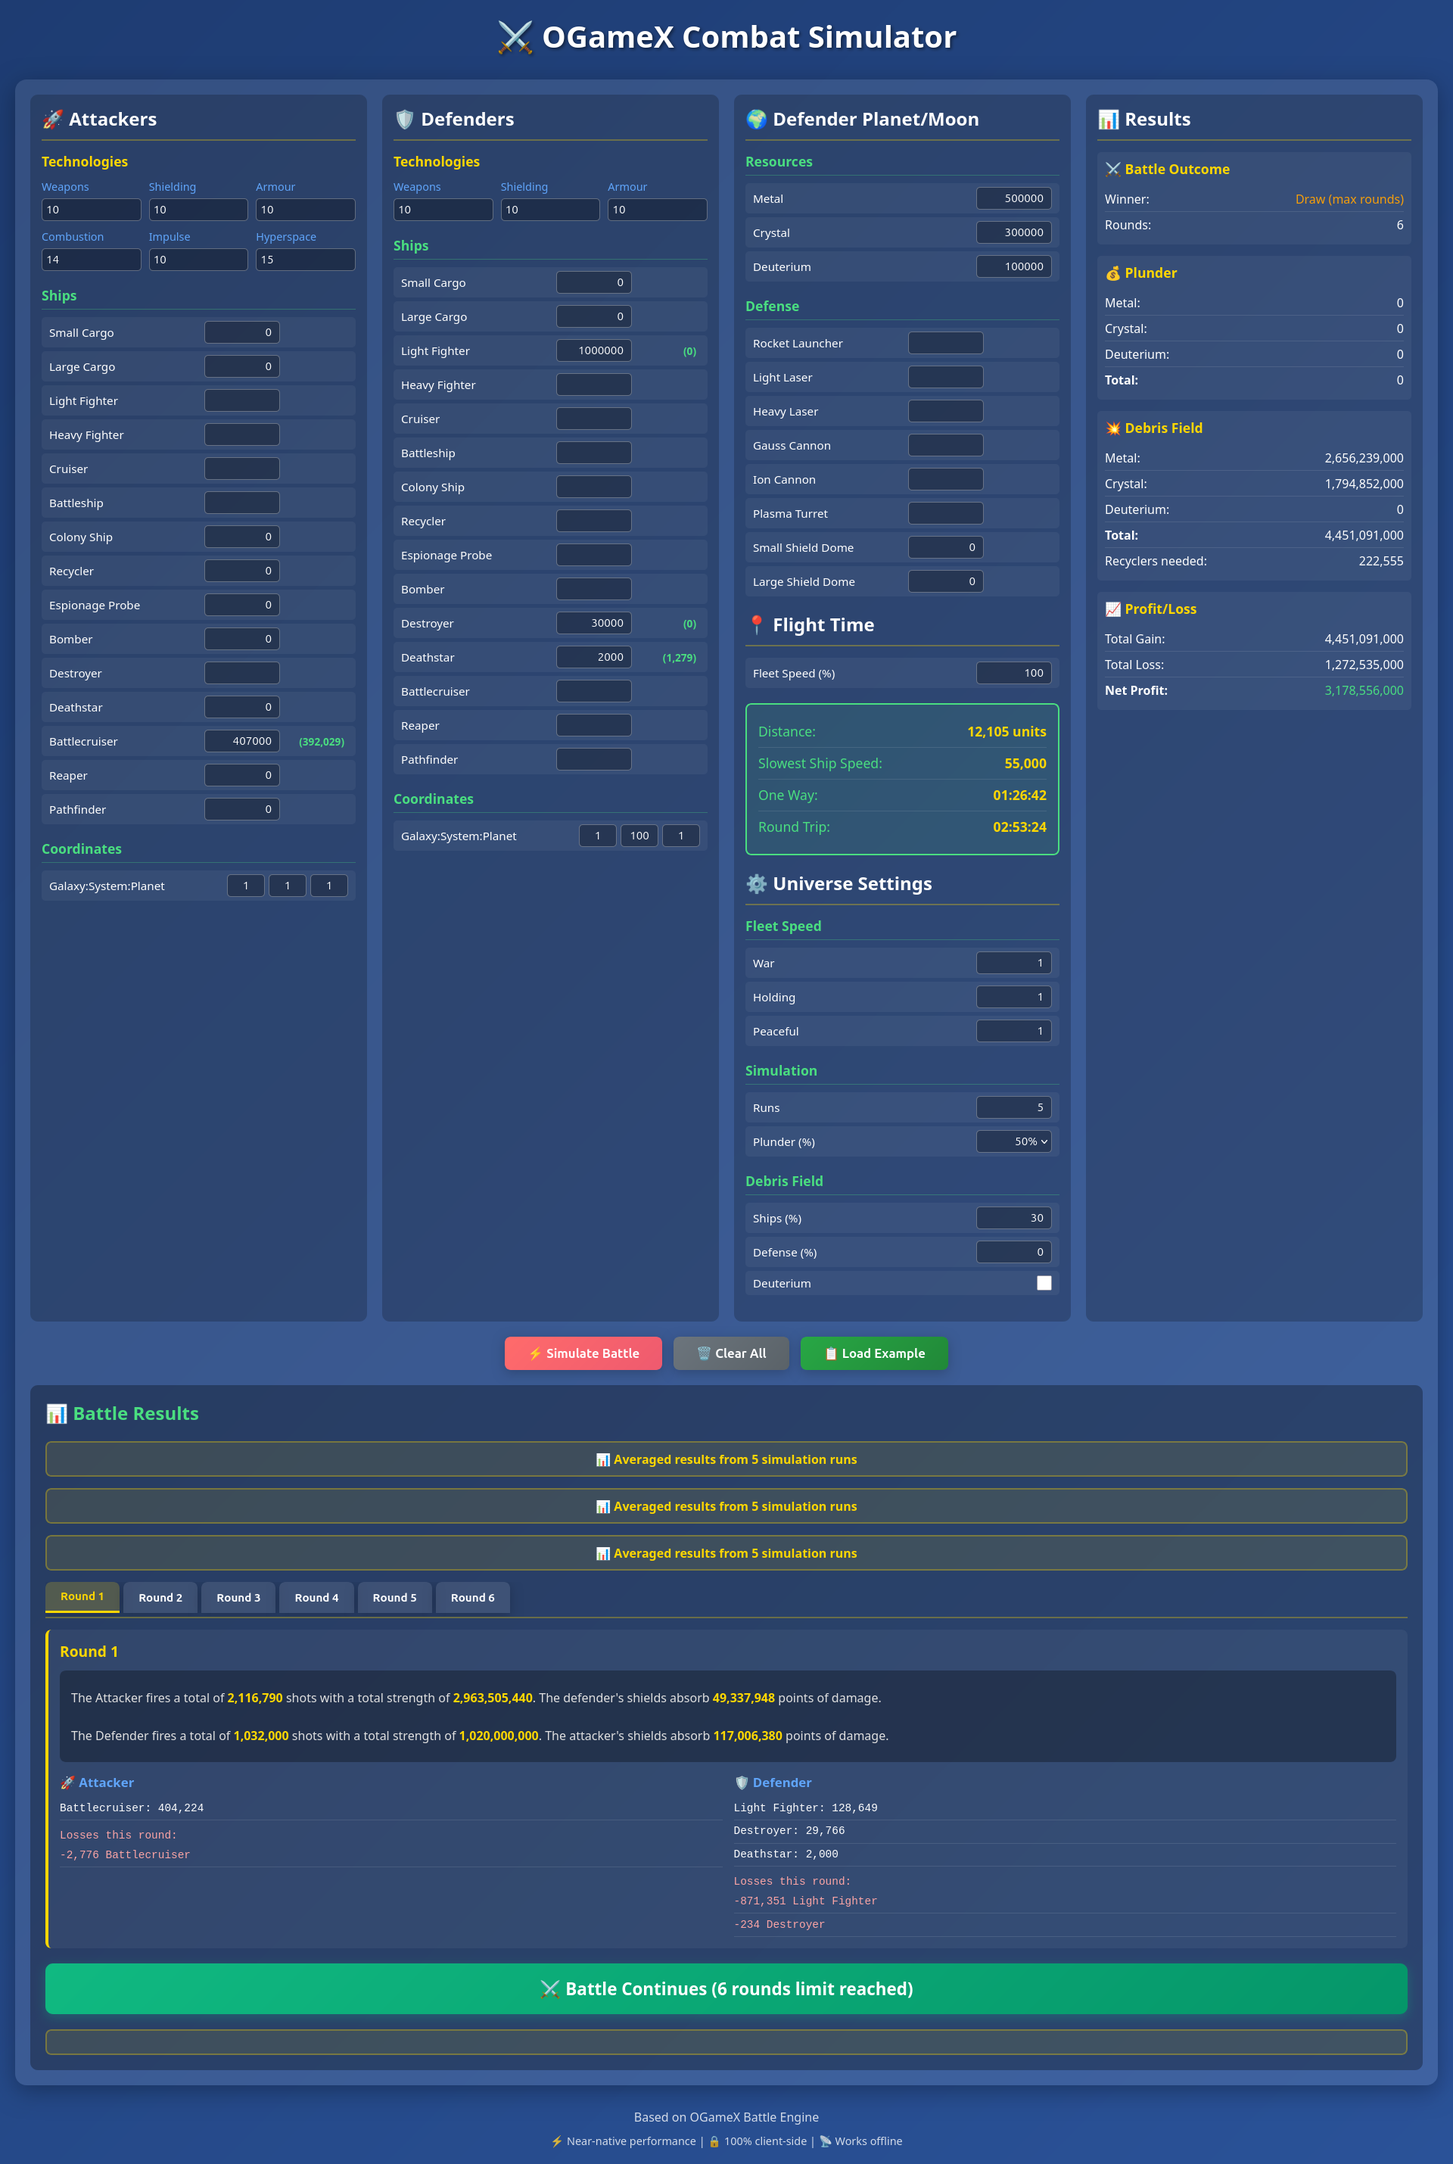
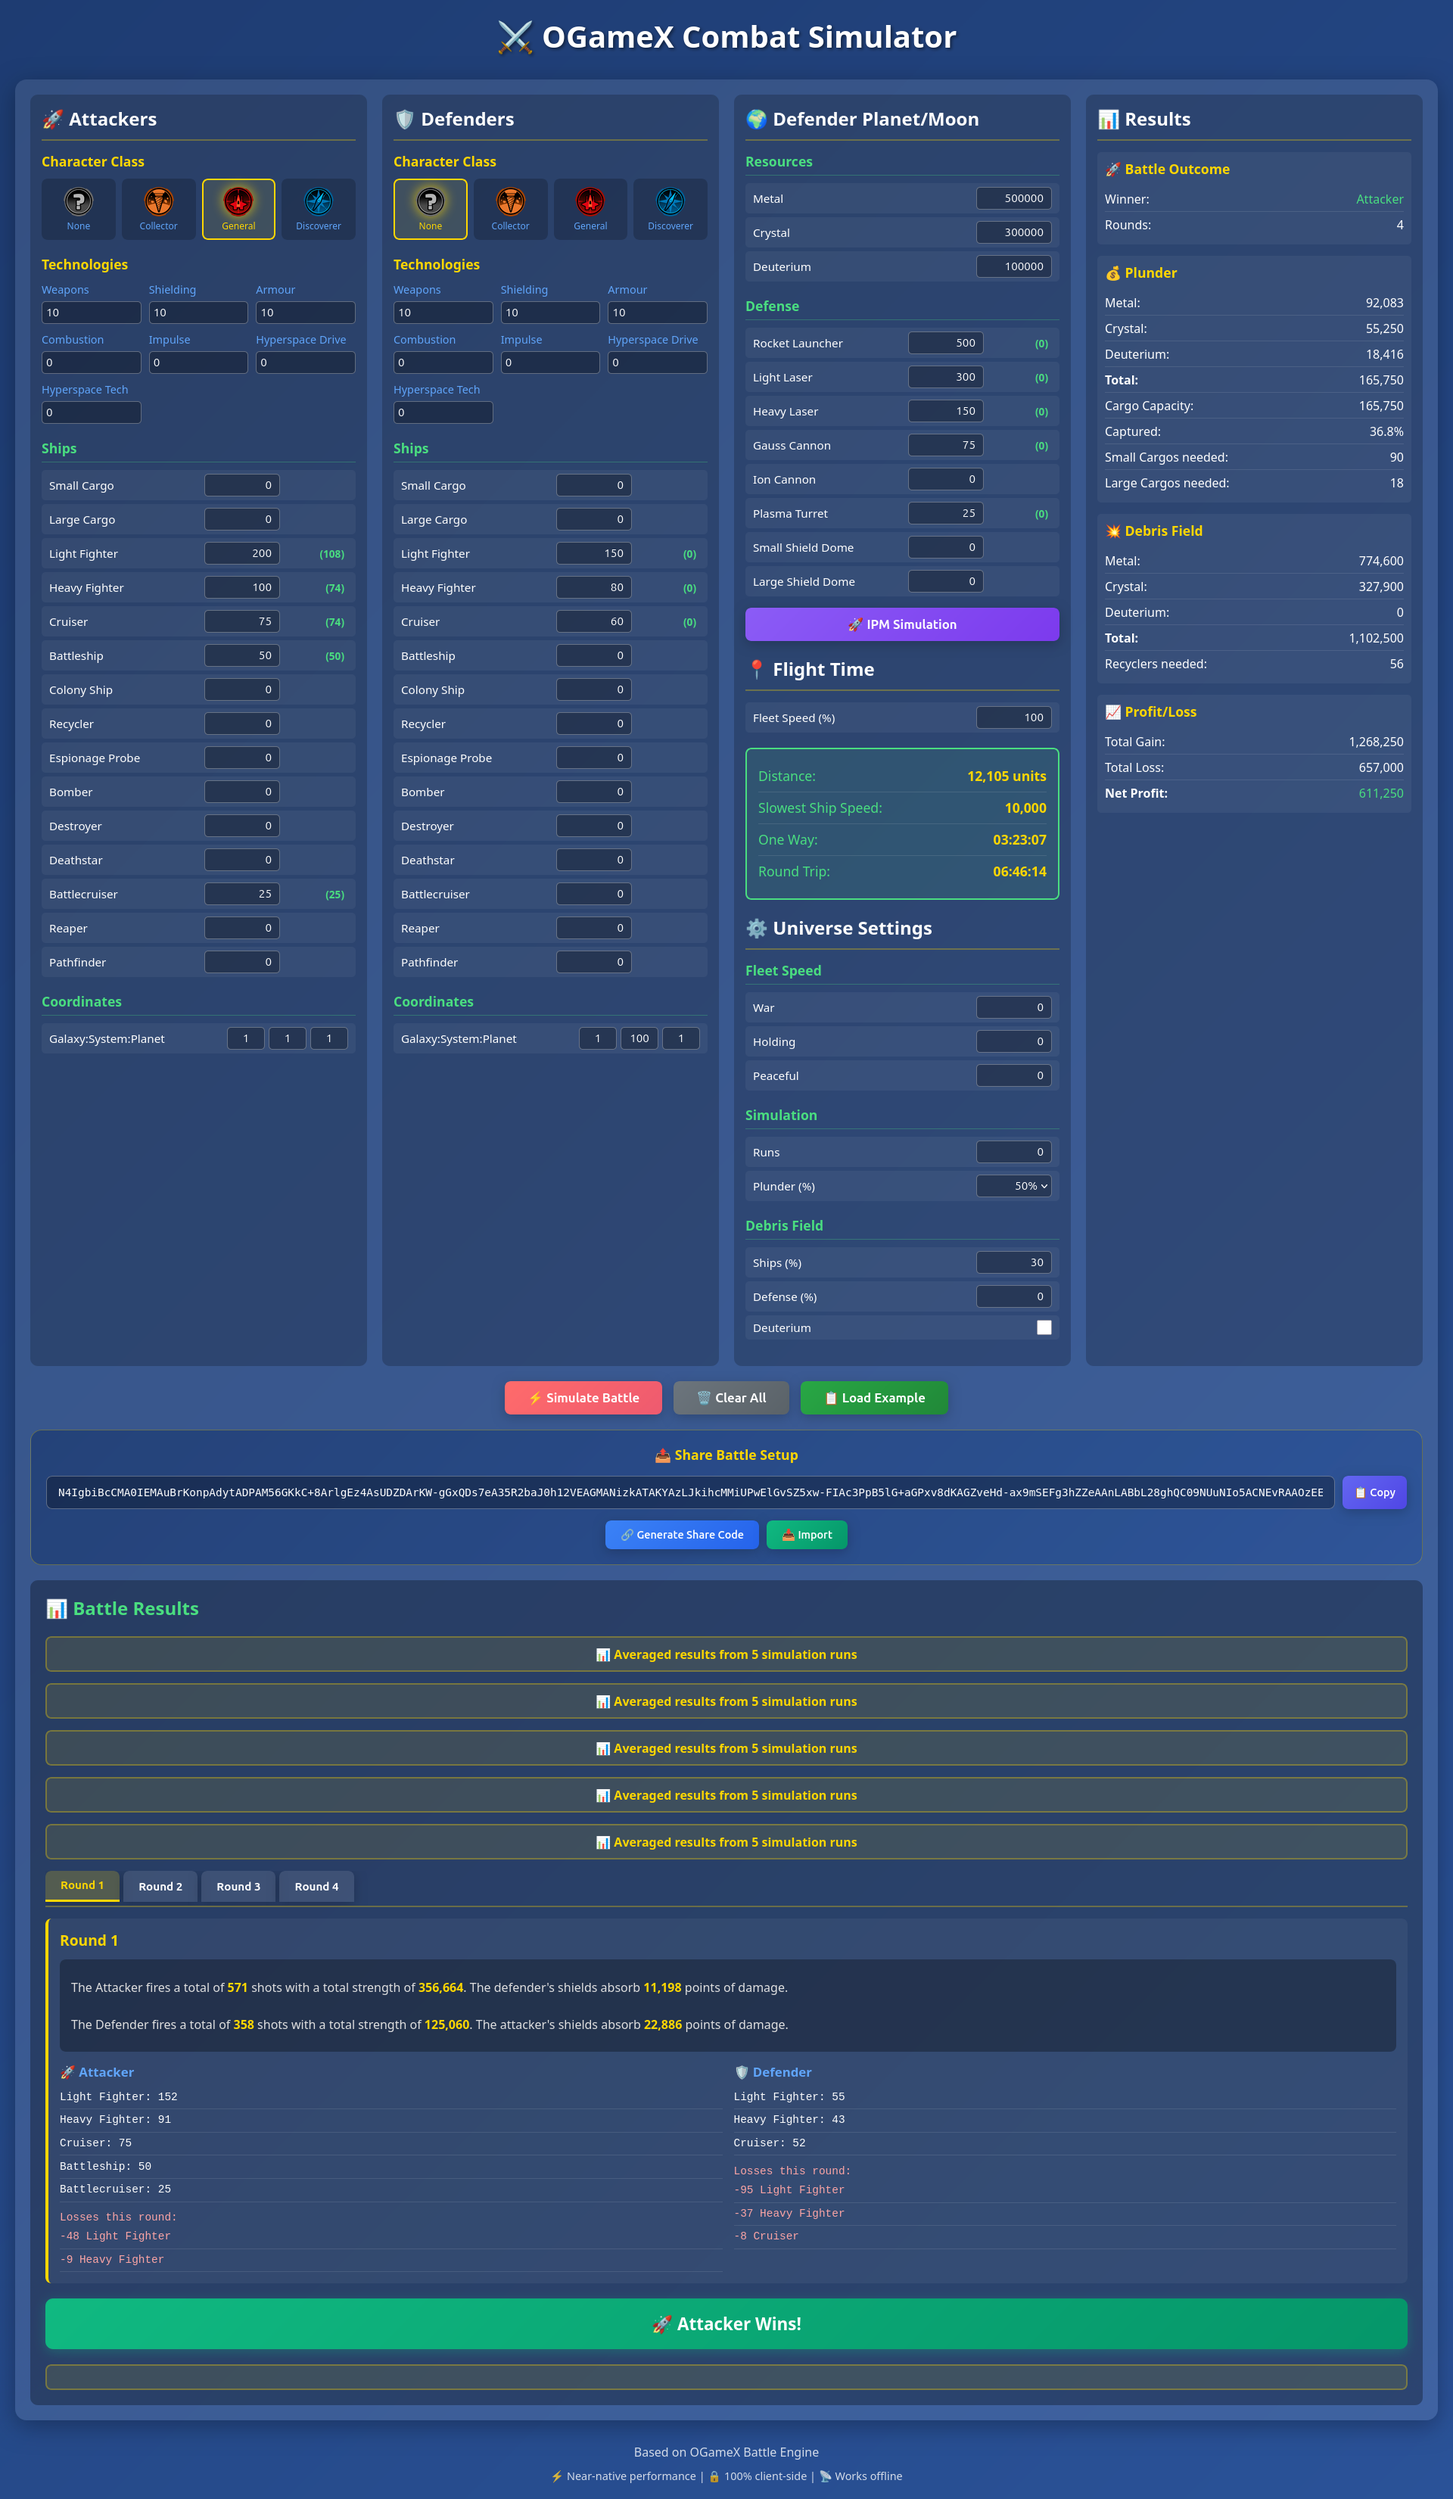
add character classes

Changed region(s): [[0.0, 0.0, 1.0, 0.9962], [0.9375, 0.2179, 0.9688, 0.3113], [0.9375, 0.1245, 0.9688, 0.1868]]

diff --git a/browser-extension/app.js b/browser-extension/app.js
@@ -99,6 +99,24 @@ async function initWasm() {
     }
 }
 
+// Character class constants
+const CHARACTER_CLASSES = {
+    NONE: 0,
+    COLLECTOR: 1,
+    GENERAL: 2,
+    DISCOVERER: 3
+};
+
+// General class bonus: +2 combat research levels (weapons, shields, armor)
+const GENERAL_COMBAT_BONUS = 2;
+
+// Get selected character class for a side
+function getCharacterClass(side) {
+    const radioName = side === 'attacker' ? 'atkClass' : 'defClass';
+    const selected = document.querySelector(`input[name="${radioName}"]:checked`);
+    return selected ? parseInt(selected.value) : CHARACTER_CLASSES.NONE;
+}
+
 // Apply technology multipliers (10% per level)
 function applyTechMultipliers(baseValue, techLevel) {
     return baseValue * (1 + (techLevel * 0.1));
@@ -110,9 +128,17 @@ function collectUnits(side) {
     const prefix = side === 'attacker' ? 'atk' : 'def';
 
     // Get technology levels
-    const weaponsTech = parseInt(document.getElementById(`${prefix}Weapons`).value) || 0;
-    const shieldingTech = parseInt(document.getElementById(`${prefix}Shielding`).value) || 0;
-    const armourTech = parseInt(document.getElementById(`${prefix}Armour`).value) || 0;
+    let weaponsTech = parseInt(document.getElementById(`${prefix}Weapons`).value) || 0;
+    let shieldingTech = parseInt(document.getElementById(`${prefix}Shielding`).value) || 0;
+    let armourTech = parseInt(document.getElementById(`${prefix}Armour`).value) || 0;
+
+    // Apply General class bonus: +2 to combat research levels
+    const characterClass = getCharacterClass(side);
+    if (characterClass === CHARACTER_CLASSES.GENERAL) {
+        weaponsTech += GENERAL_COMBAT_BONUS;
+        shieldingTech += GENERAL_COMBAT_BONUS;
+        armourTech += GENERAL_COMBAT_BONUS;
+    }
 
     // Collect all unit inputs
     const inputs = document.querySelectorAll(`.${side}-panel .unit-input`);
@@ -822,6 +848,12 @@ function clearAll() {
     document.querySelectorAll('input[type="number"]:not(#debrisShipPercent):not(#debrisDefensePercent):not(.coord-input):not(#fleetSpeedPercent)').forEach(input => {
         input.value = 0;
     });
+
+    // Reset character class selections to "None"
+    const atkNone = document.querySelector('input[name="atkClass"][value="0"]');
+    const defNone = document.querySelector('input[name="defClass"][value="0"]');
+    if (atkNone) atkNone.checked = true;
+    if (defNone) defNone.checked = true;
 
     // Reset debris settings to defaults
     document.getElementById('debrisShipPercent').value = 30;
@@ -1618,6 +1650,10 @@ function collectShareData() {
         ft: {}  // Flight time settings
     };
 
+    // Attacker character class (only non-zero)
+    const atkClass = getCharacterClass('attacker');
+    if (atkClass > 0) data.atk.cl = atkClass;
+
     // Attacker technologies (only non-zero)
     const atkTechs = {
         w: parseInt(document.getElementById('atkWeapons').value) || 0,
@@ -1640,6 +1676,10 @@ function collectShareData() {
             if (amount > 0) data.atk.u[unitId] = amount;
         }
     }
+
+    // Defender character class (only non-zero)
+    const defClass = getCharacterClass('defender');
+    if (defClass > 0) data.def.cl = defClass;
 
     // Defender technologies (only non-zero)
     const defTechs = {
@@ -1981,6 +2021,12 @@ function applyShareData(data) {
     // Clear all inputs first
     clearAll();
 
+    // Apply attacker character class
+    if (data.atk?.cl) {
+        const radio = document.querySelector(`input[name="atkClass"][value="${data.atk.cl}"]`);
+        if (radio) radio.checked = true;
+    }
+
     // Apply attacker technologies
     if (data.atk?.t) {
         if (data.atk.t.w) document.getElementById('atkWeapons').value = data.atk.t.w;
@@ -2001,6 +2047,12 @@ function applyShareData(data) {
             const input = document.getElementById(`atk-${unitId}`);
             if (input) input.value = amount;
         }
+    }
+
+    // Apply defender character class
+    if (data.def?.cl) {
+        const radio = document.querySelector(`input[name="defClass"][value="${data.def.cl}"]`);
+        if (radio) radio.checked = true;
     }
 
     // Apply defender technologies

diff --git a/browser-extension/index.html b/browser-extension/index.html
@@ -19,6 +19,33 @@
                 <div class="side-panel attacker-panel">
                     <h2 class="panel-title">🚀 Attackers</h2>
 
+                    <!-- Character Class -->
+                    <div class="class-section">
+                        <h3>Character Class</h3>
+                        <div class="class-selector">
+                            <label class="class-option">
+                                <input type="radio" name="atkClass" value="0" checked>
+                                <img src="img/classes/none.png" alt="No Class" title="No Class">
+                                <span>None</span>
+                            </label>
+                            <label class="class-option">
+                                <input type="radio" name="atkClass" value="1">
+                                <img src="img/classes/collector.png" alt="Collector" title="Collector">
+                                <span>Collector</span>
+                            </label>
+                            <label class="class-option">
+                                <input type="radio" name="atkClass" value="2">
+                                <img src="img/classes/general.png" alt="General" title="General (+2 Combat Tech)">
+                                <span>General</span>
+                            </label>
+                            <label class="class-option">
+                                <input type="radio" name="atkClass" value="3">
+                                <img src="img/classes/discoverer.png" alt="Discoverer" title="Discoverer">
+                                <span>Discoverer</span>
+                            </label>
+                        </div>
+                    </div>
+
                     <!-- Technologies -->
                     <div class="tech-section">
                         <h3>Technologies</h3>
@@ -155,6 +182,33 @@
                 <!-- Defender Panel -->
                 <div class="side-panel defender-panel">
                     <h2 class="panel-title">🛡 Defenders</h2>
+
+                    <!-- Character Class -->
+                    <div class="class-section">
+                        <h3>Character Class</h3>
+                        <div class="class-selector">
+                            <label class="class-option">
+                                <input type="radio" name="defClass" value="0" checked>
+                                <img src="img/classes/none.png" alt="No Class" title="No Class">
+                                <span>None</span>
+                            </label>
+                            <label class="class-option">
+                                <input type="radio" name="defClass" value="1">
+                                <img src="img/classes/collector.png" alt="Collector" title="Collector">
+                                <span>Collector</span>
+                            </label>
+                            <label class="class-option">
+                                <input type="radio" name="defClass" value="2">
+                                <img src="img/classes/general.png" alt="General" title="General (+2 Combat Tech)">
+                                <span>General</span>
+                            </label>
+                            <label class="class-option">
+                                <input type="radio" name="defClass" value="3">
+                                <img src="img/classes/discoverer.png" alt="Discoverer" title="Discoverer">
+                                <span>Discoverer</span>
+                            </label>
+                        </div>
+                    </div>
 
                     <!-- Technologies -->
                     <div class="tech-section">

diff --git a/browser-extension/style.css b/browser-extension/style.css
@@ -60,6 +60,73 @@ h1 {
     border-bottom: 2px solid rgba(255, 215, 0, 0.3);
 }
 
+/* Character Class Selector */
+.class-section {
+    margin-bottom: 20px;
+}
+
+.class-section h3 {
+    font-size: 1.1rem;
+    color: #ffd700;
+    margin-bottom: 10px;
+}
+
+.class-selector {
+    display: flex;
+    gap: 8px;
+    flex-wrap: wrap;
+}
+
+.class-option {
+    display: flex;
+    flex-direction: column;
+    align-items: center;
+    cursor: pointer;
+    padding: 8px;
+    border-radius: 8px;
+    background: rgba(0, 0, 0, 0.2);
+    border: 2px solid transparent;
+    transition: all 0.2s ease;
+    flex: 1;
+    min-width: 60px;
+}
+
+.class-option:hover {
+    background: rgba(255, 255, 255, 0.1);
+    border-color: rgba(255, 215, 0, 0.3);
+}
+
+.class-option input[type="radio"] {
+    display: none;
+}
+
+.class-option input[type="radio"]:checked + img {
+    filter: drop-shadow(0 0 8px rgba(255, 215, 0, 0.8));
+}
+
+.class-option:has(input[type="radio"]:checked) {
+    border-color: #ffd700;
+    background: rgba(255, 215, 0, 0.1);
+}
+
+.class-option img {
+    width: 40px;
+    height: 40px;
+    border-radius: 50%;
+    margin-bottom: 4px;
+    transition: filter 0.2s ease;
+}
+
+.class-option span {
+    font-size: 0.75rem;
+    color: #60a5fa;
+    text-align: center;
+}
+
+.class-option:has(input[type="radio"]:checked) span {
+    color: #ffd700;
+}
+
 .tech-section {
     margin-bottom: 20px;
 }

diff --git a/README.md b/README.md
@@ -97,7 +97,7 @@ Planned features (not yet implemented):
 - [ ] Tactical retreat
 - [x] Share function (battle setup sharing with compressed codes)
 - [ ] Geologist support
-- [ ] Character classes (Collector, General, Discoverer)
+- [x] Character classes (Collector, General, Discoverer) - General provides +2 combat tech bonus
 
 ## Based On
 
